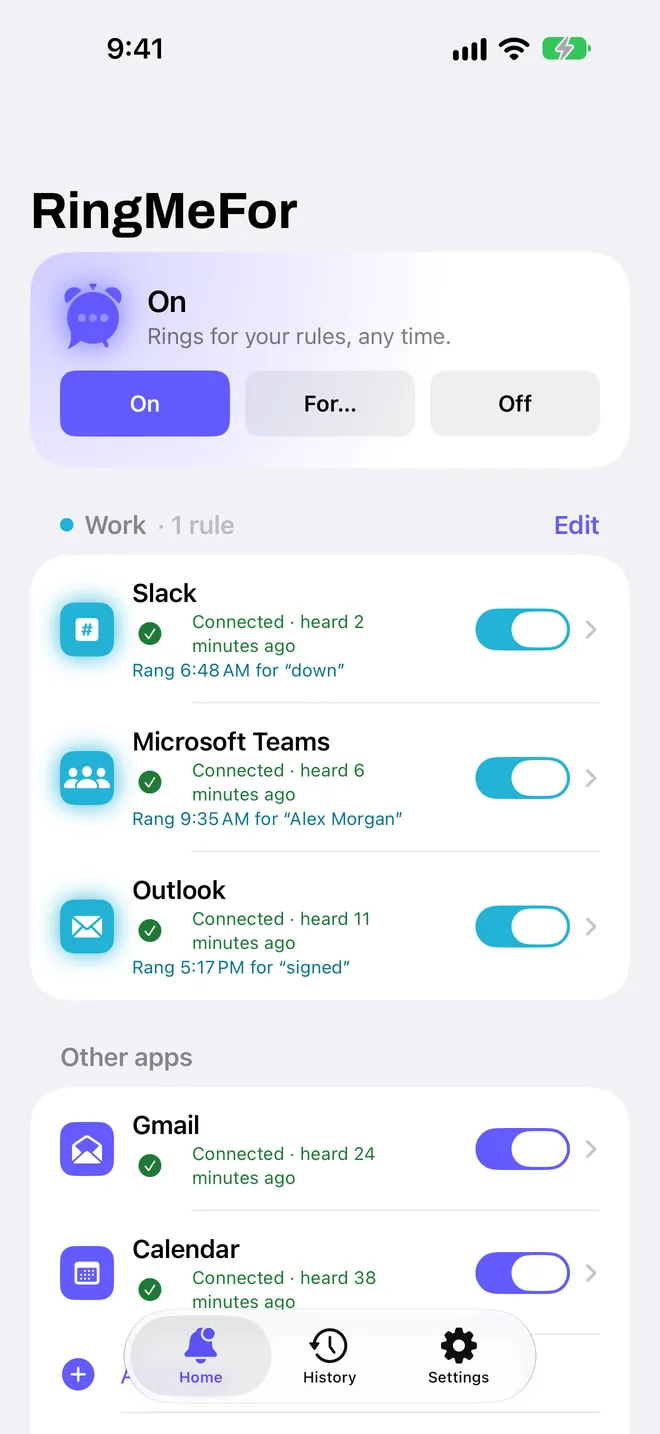
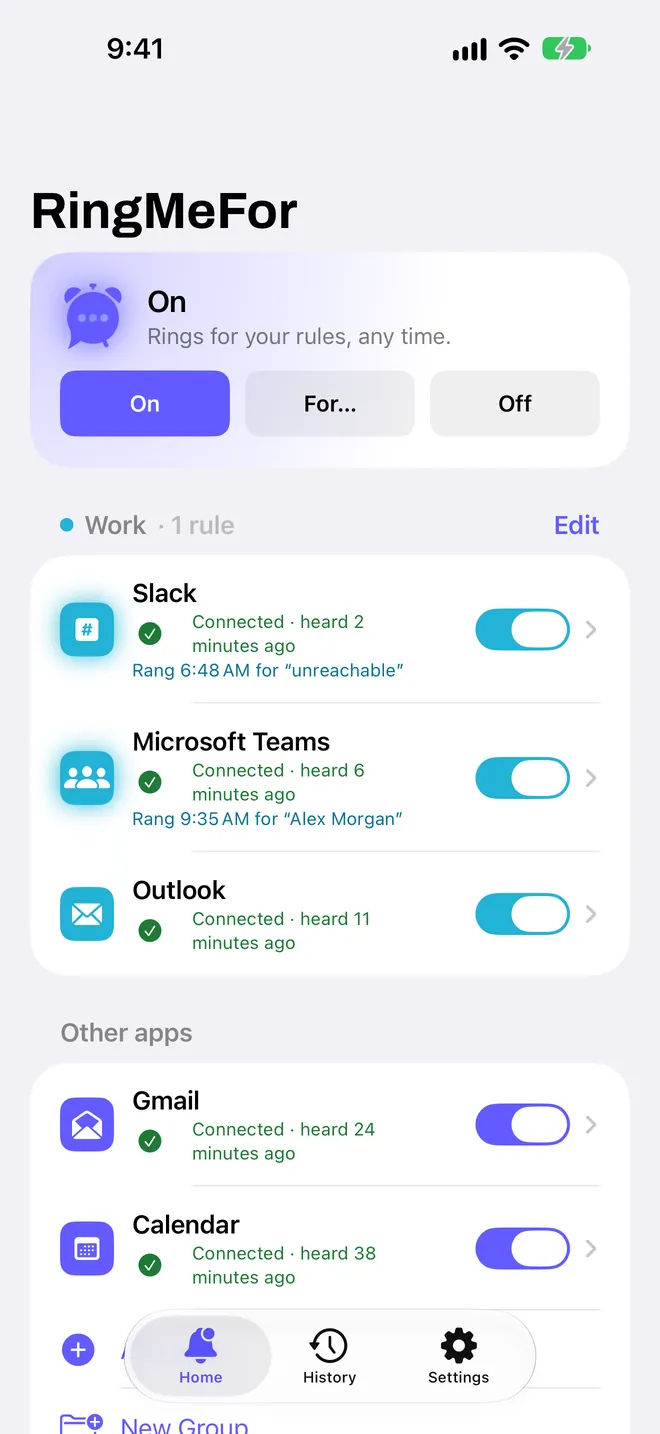
Home page: new app screenshots with the new sample data
Claude-Session: https://claude.ai/code/session_014NKZs675oedrtAJAJBA9sZ

diff --git a/index.html b/index.html
@@ -102,11 +102,11 @@
         </li>
         <li>
           <button class="tour-item" type="button" aria-pressed="false" data-shot="1"><span class="tour-ask">Ring only for the words and people you pick.</span><span class="tour-more">Words to ring for, words to never ring for, and people. Then times, days and repeats, if you want them.</span><span class="tour-time" aria-hidden="true"></span></button>
-          <figure class="phone tour-mini"><div class="phone-edge"><div class="phone-glass"><div class="phone-screen"><img src="images/app/rule.webp" width="660" height="1434" alt="A rule called Incidents that rings for certain words, outage, sev1, down and @here, or for messages from Priya Shah." loading="lazy" decoding="async"></div><span class="phone-island" aria-hidden="true"></span></div></div></figure>
+          <figure class="phone tour-mini"><div class="phone-edge"><div class="phone-glass"><div class="phone-screen"><img src="images/app/rule.webp" width="660" height="1434" alt="A rule called On call that rings for certain words, outage, P1, unreachable and @channel, or for messages from Nadia Brooks." loading="lazy" decoding="async"></div><span class="phone-island" aria-hidden="true"></span></div></div></figure>
         </li>
         <li>
           <button class="tour-item" type="button" aria-pressed="false" data-shot="2"><span class="tour-ask">Choose how it rings.&nbsp;<span class="mark">Pro</span></span><span class="tour-more">A sound for each rule, Loudness, a countdown, a second button that opens the app, and ringing again if you sleep through it.</span><span class="tour-time" aria-hidden="true"></span></button>
-          <figure class="phone tour-mini"><div class="phone-edge"><div class="phone-glass"><div class="phone-screen"><img src="images/app/rule-alarm.webp" width="660" height="1434" alt="The rule's alarm settings: the Reactor sound, Louder, a second button that opens Slack, and Ring again every 2 minutes." loading="lazy" decoding="async"></div><span class="phone-island" aria-hidden="true"></span></div></div></figure>
+          <figure class="phone tour-mini"><div class="phone-edge"><div class="phone-glass"><div class="phone-screen"><img src="images/app/rule-alarm.webp" width="660" height="1434" alt="The rule's alarm settings: the Reactor sound, 8 dB louder, a second button that opens Slack, and Ring again every 2 minutes." loading="lazy" decoding="async"></div><span class="phone-island" aria-hidden="true"></span></div></div></figure>
         </li>
         <li>
           <button class="tour-item" type="button" aria-pressed="false" data-shot="3"><span class="tour-ask">A real alarm, even on Silent.</span><span class="tour-more">It rings like the Clock app's alarms, through Silent mode and Focus, with Snooze and slide to stop.</span><span class="tour-time" aria-hidden="true"></span></button>
@@ -114,11 +114,11 @@
         </li>
         <li>
           <button class="tour-item" type="button" aria-pressed="false" data-shot="4"><span class="tour-ask">See why it rang, or why it stayed quiet.</span><span class="tour-more">History keeps every alarm and every match that stayed quiet, with the rule and the reason.</span><span class="tour-time" aria-hidden="true"></span></button>
-          <figure class="phone tour-mini"><div class="phone-edge"><div class="phone-glass"><div class="phone-screen"><img src="images/app/history.webp" width="660" height="1434" alt="History: this week, 5 alarms from 1,748 notifications. Microsoft Teams from Alex Morgan and Slack #incidents rang today, each with the rule it matched." loading="lazy" decoding="async"></div><span class="phone-island" aria-hidden="true"></span></div></div></figure>
+          <figure class="phone tour-mini"><div class="phone-edge"><div class="phone-glass"><div class="phone-screen"><img src="images/app/history.webp" width="660" height="1434" alt="History: this week, 5 alarms from 1,748 notifications. Microsoft Teams from Alex Morgan and Slack #on-call rang, each with the rule it matched." loading="lazy" decoding="async"></div><span class="phone-island" aria-hidden="true"></span></div></div></figure>
         </li>
       </ol>
       </div>
-      <figure class="phone tour-phone"><div class="phone-edge"><div class="phone-glass"><div class="phone-screen"><img class="is-on" src="images/app/home.webp" width="660" height="1434" alt="RingMeFor's Home screen: On, a Work group with Slack, Microsoft Teams and Outlook, each connected and showing what it last rang for, then Gmail and Calendar." decoding="async"><img src="images/app/rule.webp" width="660" height="1434" alt="A rule called Incidents that rings for certain words, outage, sev1, down and @here, or for messages from Priya Shah." loading="lazy" decoding="async"><img src="images/app/rule-alarm.webp" width="660" height="1434" alt="The rule's alarm settings: the Reactor sound, Louder, a second button that opens Slack, and Ring again every 2 minutes." loading="lazy" decoding="async"><img data-island="off" src="images/app/alarm-0648.webp" width="660" height="1434" alt="The alarm on the Lock Screen at 6:48: Slack, #incidents: Checkout is down, with Snooze and slide to stop." loading="lazy" decoding="async"><img src="images/app/history.webp" width="660" height="1434" alt="History: this week, 5 alarms from 1,748 notifications. Microsoft Teams from Alex Morgan and Slack #incidents rang today, each with the rule it matched." loading="lazy" decoding="async"></div><span class="phone-island" aria-hidden="true"></span></div></div></figure>
+      <figure class="phone tour-phone"><div class="phone-edge"><div class="phone-glass"><div class="phone-screen"><img class="is-on" src="images/app/home.webp" width="660" height="1434" alt="RingMeFor's Home screen: On, a Work group with Slack, Microsoft Teams and Outlook, each connected and showing what it last rang for, then Gmail and Calendar." decoding="async"><img src="images/app/rule.webp" width="660" height="1434" alt="A rule called On call that rings for certain words, outage, P1, unreachable and @channel, or for messages from Nadia Brooks." loading="lazy" decoding="async"><img src="images/app/rule-alarm.webp" width="660" height="1434" alt="The rule's alarm settings: the Reactor sound, 8 dB louder, a second button that opens Slack, and Ring again every 2 minutes." loading="lazy" decoding="async"><img data-island="off" src="images/app/alarm-0648.webp" width="660" height="1434" alt="The alarm on the Lock Screen at 6:48: Slack, #incidents: Checkout is down, with Snooze and slide to stop." loading="lazy" decoding="async"><img src="images/app/history.webp" width="660" height="1434" alt="History: this week, 5 alarms from 1,748 notifications. Microsoft Teams from Alex Morgan and Slack #on-call rang, each with the rule it matched." loading="lazy" decoding="async"></div><span class="phone-island" aria-hidden="true"></span></div></div></figure>
     </div>
   </div>
 </section>
